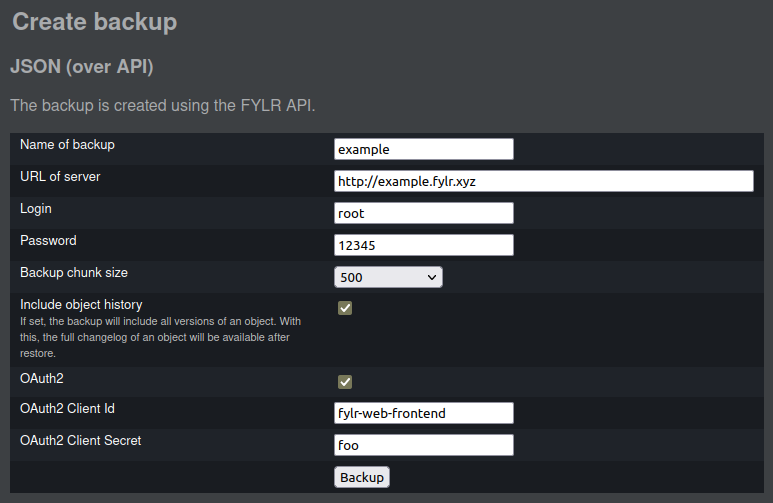
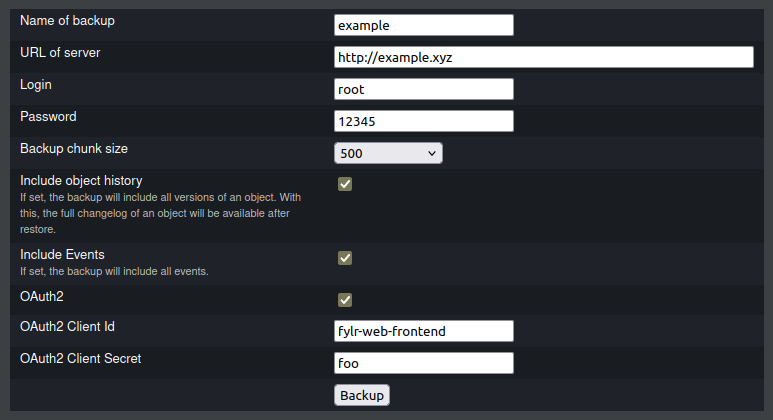
updated documentation for new backup/restore parameter --include-events; see #72081

diff --git a/for-system-administrators/migration/restore.md b/for-system-administrators/migration/restore.md
@@ -42,45 +42,54 @@ Usage: fylr restore
 Restore API backup into FYLR
 
 Flags:
-  -h, --help                                   Show context-sensitive help.
+  -h, --help                       Show context-sensitive help.
 
-      --manifest=STRING                        Path to manifest.json.
-      --base-config=STRING                     Base config to upload to the target. Not supported with --continue.
-                                               By default the base config from the backup is uploaded. Use "-" to not upload a base config.
-      --datamodel=STRING                       Datamodel to upload to the target. Not supported with --continue.
-                                               By default the datamodel from the backup is uploaded. Use "-" to not upload a datamodel.
-      --continue                               Set to true, to continue restoring payloads from progress.json.
-      --purge                                  For backup: set to true, to purge the target directory.
-                                               For restore: set to true, to purge the target and copy the datamodel. The current password of the user used for the login will be set for the system root user.
-      --upload-ignore-files-with-errors        Set to true, to ignore file upload errors and strip objects from them.
-      --max-parallel-upload-files=4            Max number of parallel original file + its versions uploads. Defaults to 4 (0 for bulk), max is 10 (unlimited for bulk).
-      --timeout-min=10                         Timeout for connections to target (minutes).
-      --include-password                       Include password in user restore.
-      --skip-constraints                       Skip constraints during restore.
-      --file-api=STRING                        API used to upload files. Leave empty to not upload files.
-                                               "put": restore tool uploads files synchronous.
-                                               "rput": target server loads files from remote URLs.
-                                               "rput_leave": target server stores remote URLs, no data is copied to storage.
-                                               "rput" and "rput_leave" are faster, "put" might take long.
-      --file-api-access-token=STRING           Use this to pass an access token to fylr backends. This is needed to load files from fylr source instances.
-                                               It appends the "access_token" query parameter to the remote url of files, and removes the "x-fylr-signature" query parameter.
-      --file-version=STRING                    Set to version to use for upload. "original" might take long for "put". Use "preview" for test runs.
-      --upload-versions                        Set to true, to not produce local preview versions, but instead upload the source versions.
-                                               The upload method is used for versions the same way as for the original.
-      --rename-versions=RENAME-VERSIONS,...    Rename versions before uploading. This affects uploaded rights as well as file versions.
-                                               The versions need to be given in the notation "<cls>.<version>:<new version>", e.g. "image.preview:640px" would replace the "preview" version of image to "640px".
-                                               If the "<new version>" is omitted, the version is removed.
-  -v, --verbose                                Set to true, to show additional info.
-  -n, --log-network                            Set to true, to log all network traffic.
-      --log=STRING                             Set output to logfile
-      --limit=INT                              Limit records. Set to 0 for unlimited.
-      --chunk=100                              chunk size for fetching/pushing data.
-      --server=STRING                          Source url (overwrites URL of source instance from config)
-  -l, --login=STRING                           If --server is set, use as login. Make sure to use the system root user to connect if used together with --purge.
-  -p, --password=STRING                        If --server is set, use as password
-      --client-id=STRING                       If --server is set, use as OAUTH2 client ID
-      --client-secret=STRING                   If --server is set, use as OAUTH2 client secret
-      --client-token-url=STRING                If --server is set, use as OAUTH2 token url
+      --manifest=STRING            Path to manifest.json.
+      --base-config=STRING         Base config to upload to the target. Not supported with --continue.
+                                   By default the base config from the backup is uploaded.
+                                   Use "-" to not upload a base config.
+      --datamodel=STRING           Datamodel to upload to the target.
+                                   Not supported with --continue.
+                                   By default the datamodel from the backup is uploaded.
+                                   Use "-" to not upload a datamodel.
+      --continue                   Set to true, to continue restoring payloads from progress.json.
+      --upload-ignore-files-with-errors
+                                   Set to true, to ignore file upload errors and strip objects from them.
+      --max-parallel-upload-files=4
+                                   Max number of parallel original file + its versions uploads.
+                                   Defaults to 4 (0 for bulk), max is 10 (unlimited for bulk).
+      --timeout-min=10             Timeout for connections to target (minutes).
+      --include-password           Include password in user restore.
+      --skip-constraints           Skip constraints during restore.
+      --file-api=STRING            API used to upload files. Leave empty to not upload files.
+                                   "put": restore tool uploads files synchronous.
+                                   "rput": target server loads files from remote URLs.
+                                   "rput_leave": target server stores remote URLs, no data is copied to storage.
+                                   "rput" and "rput_leave" are faster, "put" might take long.
+      --file-api-access-token=STRING
+                                   Use this to pass an access token to fylr backends. This is needed to load files from fylr source instances. It appends the "access_token" query parameter to the remote url of files, and removes the "x-fylr-signature" query parameter.
+      --file-version=STRING        Set to version to use for upload. "original" might take long for "put". Use "preview" for test runs.
+      --upload-versions            Set to true, to not produce local preview versions, but instead upload the source versions.
+                                   The upload method is used for versions the same way as for the original.
+      --rename-versions=RENAME-VERSIONS,...
+                                   Rename versions before uploading. This affects uploaded rights as well as file versions.
+                                   The versions need to be given in the notation "<cls>.<version>:<new version>", e.g. "image.preview:640px" would replace the
+                                   "preview" version of image to "640px".
+                                   If the "<new version>" is omitted, the version is removed.
+  -v, --verbose                    Set to true, to show additional info.
+  -n, --log-network                Set to true, to log all network traffic.
+      --log=STRING                 Set output to logfile
+      --purge                      For backup: set to true, to purge the target directory.
+                                   For restore: set to true, to purge the target and copy the datamodel. The current password of the user used for the
+                                   login will be set for the system root user. --limit=INT                  Limit records. Set to 0 for unlimited.
+      --chunk=100                  chunk size for fetching/pushing data.
+      --include-events=STRING      Comma separated list of event types. Use "-" to skip backup/restoring of events.
+      --server=STRING              Source url (overwrites URL of source instance from config)
+  -l, --login=STRING               If --server is set, use as login. Make sure to use the system root user to connect if used together with --purge.
+  -p, --password=STRING            If --server is set, use as password
+      --client-id=STRING           If --server is set, use as OAUTH2 client ID
+      --client-secret=STRING       If --server is set, use as OAUTH2 client secret
+      --client-token-url=STRING    If --server is set, use as OAUTH2 token url
 ```
 
 
@@ -88,7 +97,7 @@ Flags:
 
 part below was auto generated
 source: https://docs.google.com/spreadsheets/d/1JXKxGe6RaIGCpS8JY12qrnlESxDCm9dz8EmeeWmK57U/export?format=csv&gid=1408589219
-timestamp: 2024-06-19 13:57:33 (UTC)
+timestamp: 2024-07-11 08:25:21 (UTC)
 
 -->
 
@@ -216,6 +225,24 @@ For a **fylr** source instance this is not necessary, since the password hashes 
 * default: `false`
 
 
+### `--include-events`
+
+{% hint style="info" %}
+This parameter is available in fylr from version **v6.12.0**.
+{% endhint %}
+
+Comma separated list of event types.
+
+{% hint style="info" %}
+Use `--include-events=-` to skip restoring of events.
+
+If this parameter is unset, all events are restored which have a type that is known in fylr. All other events from the backup are ignored.
+{% endhint %}
+
+* type: `string`
+* default: `""`
+
+
 ### `--chunk`
 
 The upload batch size for objects to the target instance. Can be used to control the size of the requests. It can be lowered if the requests cause timeouts or network problems.
@@ -249,22 +276,7 @@ Method used to upload files. Leave empty to not upload files.
 * type: `string`
 
 
-### `--file-api-append-to-url-query`
-
-{% hint style="warning" %}
-**Deprecated!** This parameter is removed in fylr in version **v6.10.0**.
-{% endhint %}
-
-Append parameters to eas urls (for example, use this to pass an access token to fylr backends). `?` or `&` is prefixed to this as needed.
-
-* type: `string`
-
-
 ### `--file-api-access-token`
-
-{% hint style="info" %}
-This parameter is available in fylr from version **v6.10.0**.
-{% endhint %}
 
 Use this to pass an access token to fylr backends. This is needed to load files from fylr source instances. It appends the `access_token` query parameter to the remote url of files, and removes the `x-fylr-signature` query parameter.
 

diff --git a/for-system-administrators/migration/backup.md b/for-system-administrators/migration/backup.md
@@ -44,9 +44,8 @@ Flags:
 
   -d, --dir=STRING                 Target directory.
       --size=100                   Size of .json files.
-      --compression=0              0: no compression, 1: speed, 9: best. Only valid for default backupformat.
-      --continue                   Set to true, to continue. Only valid for default backupformat.
-      --purge                      Set to true, to delete the target directory and all files before the backup.
+      --compression=0              0: no compression, 1: speed, 9: best.
+      --continue                   Set to true, to continue.
       --all-versions               Set to true, to request all versions of an object.
       --include=STRING             Filter regexp to include objecttypes.
       --retry-max-count=10         Number of retries for failed requests with network problems.
@@ -60,8 +59,11 @@ Flags:
   -v, --verbose                    Set to true, to show additional info.
   -n, --log-network                Set to true, to log all network traffic.
       --log=STRING                 Set output to logfile
+      --purge                      For backup: set to true, to purge the target directory. For restore: set to true, to purge the target and copy the datamodel.
+                                   The current password of the user used for the login will be set for the system root user.
       --limit=INT                  Limit records. Set to 0 for unlimited.
       --chunk=100                  chunk size for fetching/pushing data.
+      --include-events=STRING      Comma separated list of event types. Use "-" to skip backup/restoring of events.
 ```
 
 
@@ -69,7 +71,7 @@ Flags:
 
 part below was auto generated
 source: https://docs.google.com/spreadsheets/d/1JXKxGe6RaIGCpS8JY12qrnlESxDCm9dz8EmeeWmK57U/export?format=csv&gid=0
-timestamp: 2024-06-19 13:57:33 (UTC)
+timestamp: 2024-07-11 08:25:21 (UTC)
 
 -->
 
@@ -193,35 +195,29 @@ Not to be confused with asset versions (see parameters for `fylr restore`)!
 * default: `false`
 
 
-### `--base`
-
-{% hint style="warning" %}
-**Deprecated!** This parameter is removed in fylr in version **v6.10.0**.
-{% endhint %}
-
-Set to `false` to ignore the following base types in the backup: tags, messages, transitions, right presets for collections and objects, publishings and collections. Users, groups and pools are always included in the backup.
-
-* type: `bool`
-* default: `true`
-
-
-### `--user`
-
-{% hint style="warning" %}
-**Deprecated!** This parameter is removed in fylr in version **v6.10.0**.
-{% endhint %}
-
-Set to `false` to ignore all user created objects in the backup (user objects means objects based on the datamodel which have been created by users). This means, that only base types are backupped.
-
-* type: `bool`
-* default: `true`
-
-
 ### `--include`
 
 If this is a valid non empty regex string, only objecttypes are backupped where the internal objecttype name matches the regex.
 
 * type: `string`
+
+
+### `--include-events`
+
+{% hint style="info" %}
+This parameter is available in fylr from version **v6.12.0**.
+{% endhint %}
+
+Comma separated list of event types.
+
+{% hint style="info" %}
+Use `--include-events=-` to skip backup of events.
+
+If this parameter is unset, all events are backupped
+{% endhint %}
+
+* type: `string`
+* default: `""`
 
 
 ### `--retry-max-count`

diff --git a/for-system-administrators/migration/inspect.md b/for-system-administrators/migration/inspect.md
@@ -57,6 +57,16 @@ See also: [Backup Parameters](backup.md#parameters)
 * This option is enabled by default
 * This sets `--all-versions true`
 
+#### Include events
+
+{% hint style="info" %}
+This parameter is available in fylr from version **v6.12.0**.
+{% endhint %}
+
+* If set, all events from the source are included in the backup
+* If not set, the backup of events is skipped
+* This sets `--include-events`
+
 #### OAuth2
 
 * Select only of the source instance uses OAuth2
@@ -166,6 +176,17 @@ This sets `--file-api-access-token <token>`
 * Enable this checkbox to include user password hashes
 * If this option is `true`, the restore tool checks if there is at least one user where a password hash is present
 * This sets `--include-password`
+
+#### Include events
+
+{% hint style="info" %}
+This parameter is available in fylr from version **v6.12.0**.
+{% endhint %}
+
+* If set, all events which have an event type that is known by fylr are restored
+* This means if there are unknown events in the backup (from easydb5), these will not be imported
+* If not set, no events will be imported
+* This sets `--include-events`
 
 #### OAuth2
 
